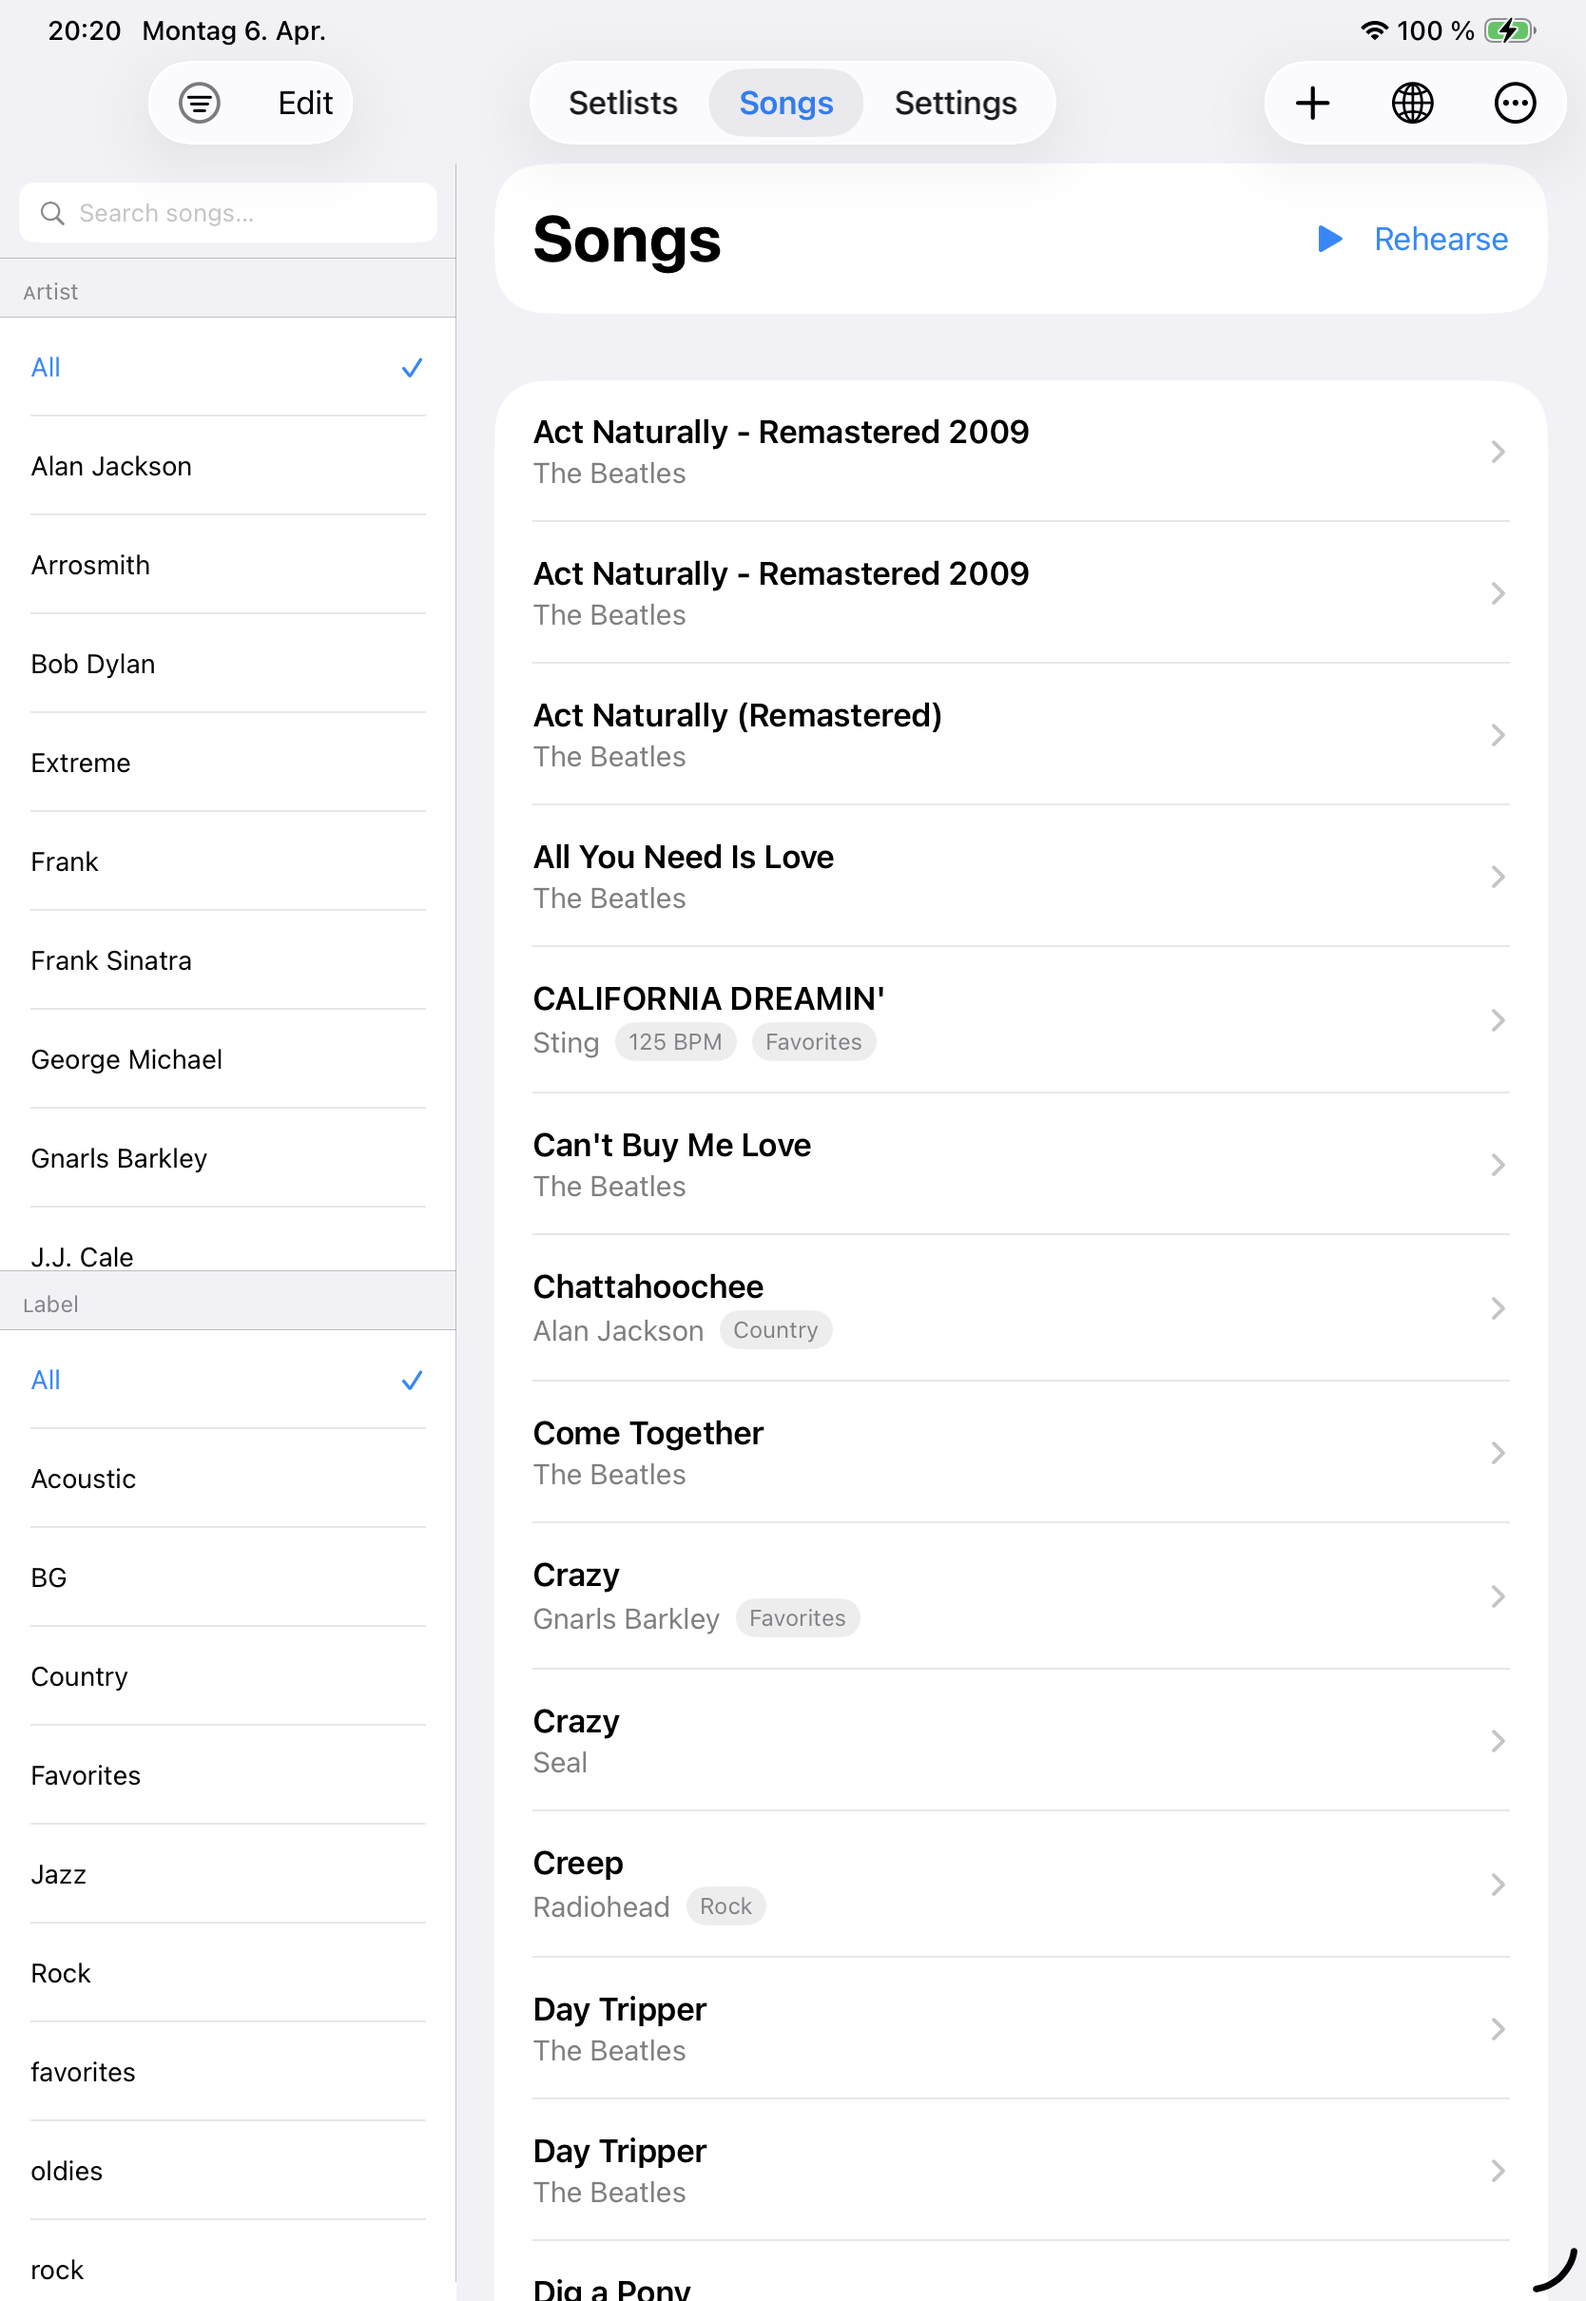
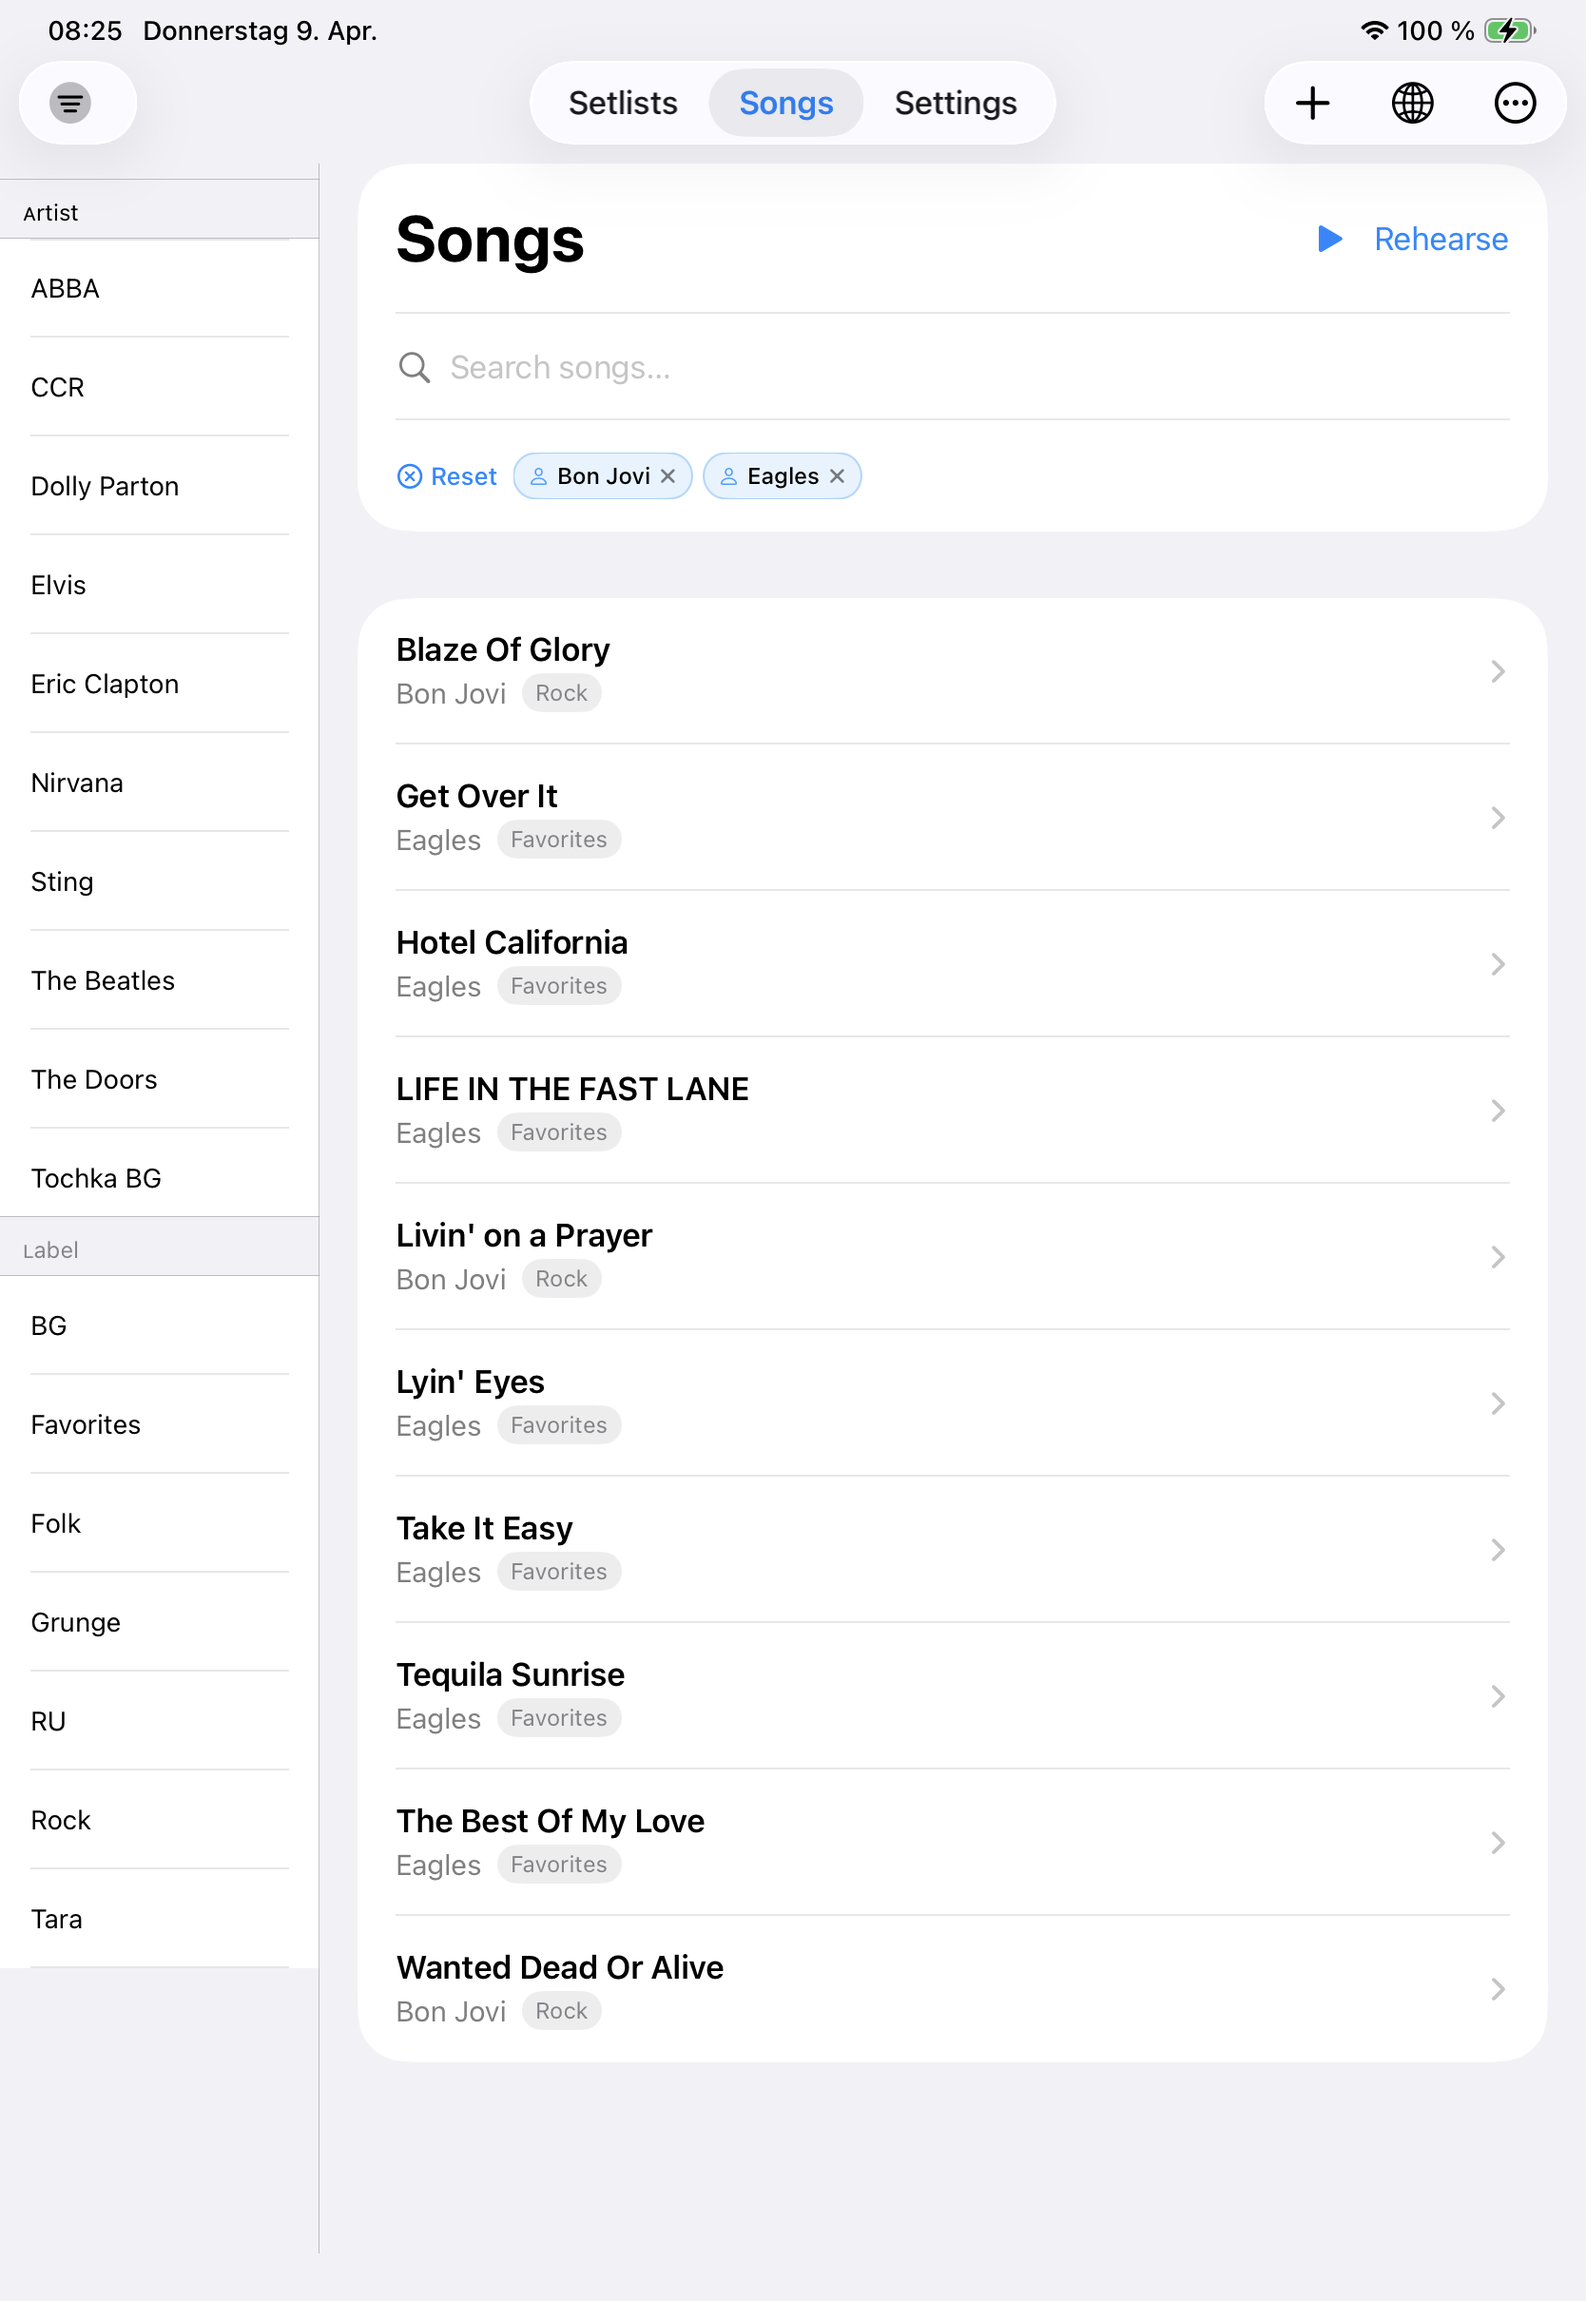
some minor updates

diff --git a/index.html b/index.html
@@ -422,7 +422,7 @@
 <section class="hero">
   <span class="hero-eyebrow">For performing musicians</span>
   <h1>Your songs.<br><em>Your stage.</em></h1>
-  <p>Manage lyrics, build setlists, transpose chords live — all offline, no account needed.</p>
+  <p>The songbook app built for live performance. Lyrics, chords, setlists — offline, no account, no distractions.</p>
   <div class="hero-actions">
     <a href="https://apps.apple.com" class="btn-primary">
       <svg width="17" height="17" viewBox="0 0 24 24" fill="currentColor"><path d="M18.71 19.5c-.83 1.24-1.71 2.45-3.05 2.47-1.34.03-1.77-.79-3.29-.79-1.53 0-2 .77-3.27.82-1.31.05-2.3-1.32-3.14-2.53C4.25 17 2.94 12.45 4.7 9.39c.87-1.52 2.43-2.48 4.12-2.51 1.28-.02 2.5.87 3.29.87.78 0 2.26-1.07 3.8-.91.65.03 2.47.26 3.64 1.98-.09.06-2.17 1.28-2.15 3.81.03 3.02 2.65 4.03 2.68 4.04-.03.07-.42 1.44-1.38 2.83M13 3.5c.73-.83 1.94-1.46 2.94-1.5.13 1.17-.34 2.35-1.04 3.19-.69.85-1.83 1.51-2.95 1.42-.15-1.15.41-2.35 1.05-3.11z"/></svg>
@@ -431,7 +431,7 @@
     <a href="#features" class="btn-secondary">See features</a>
   </div>
   <div class="hero-img">
-    <img src="ipad_screens/4.performance_view.PNG" alt="Gig Songbook performance mode" />
+    <img src="ipad_screens/4.performance_view_1.PNG" alt="Gig Songbook performance mode" />
   </div>
 </section>
 
@@ -475,7 +475,7 @@
   <div class="shots-header">
     <div class="section-eyebrow">See it in action</div>
     <h2 class="section-title">Built for the stage</h2>
-    <p class="section-sub">Every screen designed for low-light, high-pressure moments.</p>
+    <p class="section-sub">Real screenshots from the app — no mockups, no marketing fluff.</p>
   </div>
   <div class="shots-scroll">
     <div class="shot" onclick="openLightbox(0)">
@@ -491,27 +491,31 @@
       <div class="shot-label">Setlist Detail</div>
     </div>
     <div class="shot" onclick="openLightbox(3)">
-      <img src="ipad_screens/4.performance_view.PNG" alt="Performance Mode" />
+      <img src="ipad_screens/4.performance_view_1.PNG" alt="Performance Mode" />
       <div class="shot-label">Performance Mode</div>
     </div>
     <div class="shot" onclick="openLightbox(4)">
+      <img src="ipad_screens/4.performance_view_2.PNG" alt="Performance Mode — Dark" />
+      <div class="shot-label">Performance Mode — Dark</div>
+    </div>
+    <div class="shot" onclick="openLightbox(5)">
       <img src="ipad_screens/5.performance_view_sidebar_songselector.png" alt="Song Browser" />
       <div class="shot-label">Song Browser</div>
     </div>
-    <div class="shot" onclick="openLightbox(5)">
+    <div class="shot" onclick="openLightbox(6)">
       <img src="ipad_screens/6.performance_view_chord_tabs.png" alt="Chord Diagrams" />
       <div class="shot-label">Chord Diagrams</div>
     </div>
-    <div class="shot" onclick="openLightbox(6)">
-      <img src="ipad_screens/7.settings_view.PNG" alt="Settings" />
+    <div class="shot" onclick="openLightbox(7)">
+      <img src="ipad_screens/7.settings_view..PNG" alt="Settings" />
       <div class="shot-label">Settings</div>
     </div>
-    <div class="shot" onclick="openLightbox(7)">
+    <div class="shot" onclick="openLightbox(8)">
       <img src="ipad_screens/8.rehearse_view.PNG" alt="Rehearse Mode" />
       <div class="shot-label">Rehearse Mode</div>
     </div>
-    <div class="shot" onclick="openLightbox(8)">
-      <img src="ipad_screens/9.online_import_view.PNG" alt="Online Song Catalog" />
+    <div class="shot" onclick="openLightbox(9)">
+      <img src="ipad_screens/9.online_songs_catalog.PNG" alt="Online Song Catalog" />
       <div class="shot-label">Online Song Catalog</div>
     </div>
   </div>
@@ -529,6 +533,11 @@
     </div>
     <div class="features-grid">
       <div class="feature">
+        <span class="feature-icon">🔍</span>
+        <h3>Smart Multi-Filter</h3>
+        <p>Select multiple artists and labels at once — filters are OR-combined. Active filters appear as chips below the search field; dismiss one at a time or reset all. Filter state syncs between Songs and Rehearse.</p>
+      </div>
+      <div class="feature">
         <span class="feature-icon">🌑</span>
         <h3>Performance Mode</h3>
         <p>Full-screen dark display built for the stage. Top and bottom bars appear in sync. Tap corners to navigate, left zone for the song picker, anywhere else to toggle bars.</p>
@@ -536,7 +545,7 @@
       <div class="feature">
         <span class="feature-icon">🎙</span>
         <h3>Rehearse Mode</h3>
-        <p>Practice your filtered song list in a full-screen view. Tap <em>Rehearse</em> next to the Songs heading. Searchable sidebar with artist and label filters and a one-tap Reset Filter.</p>
+        <p>Practice in a full-screen view with a searchable sidebar. Select multiple artist and label filters at once — OR-combined, each dismissible as a chip. Filter state carries over from the Songs view automatically.</p>
       </div>
       <div class="feature">
         <span class="feature-icon">🔒</span>
@@ -573,6 +582,16 @@
         <h3><span>Import &amp; Export</span> <span class="pro-tag">Pro</span></h3>
         <p>Import from files or folders. Export your entire library or individual setlists. AirDrop to bandmates in seconds.</p>
       </div>
+      <div class="feature" style="background: var(--bg2);">
+        <span class="feature-icon">🚀</span>
+        <h3 style="color: var(--secondary);">More Coming Soon</h3>
+        <p>New features are on the way — built around real musician feedback. Stay tuned for what's next.</p>
+      </div>
+      <div class="feature" style="background: var(--bg2);">
+        <span class="feature-icon">💡</span>
+        <h3 style="color: var(--secondary);">Have an Idea?</h3>
+        <p>Every feature in this app started as a real need on a real stage. <a href="mailto:gigsongbook@gerov.com" style="color: var(--accent); text-decoration: none;">Tell us what you need</a> — we're listening.</p>
+      </div>
     </div>
   </div>
 </section>
@@ -581,7 +600,7 @@
 
 <!-- QUOTE -->
 <div class="quote-section">
-  <p class="quote">"Finally an app that <em>gets out of the way</em> and lets you focus on the music."</p>
+  <p class="quote">The only app that <em>gets out of the way</em> when the lights go down and the music starts.</p>
 </div>
 
 <!-- PRICING -->
@@ -599,10 +618,9 @@
         <div class="plan-price">$0</div>
         <div class="plan-desc">Everything you need to get started.</div>
         <ul class="plan-features">
-          <li>Unlimited songs</li>
-          <li>Unlimited setlists</li>
-          <li>Chord transposition</li>
-          <li>Performance mode</li>
+          <li>Unlimited songs &amp; setlists</li>
+          <li>Performance &amp; Rehearse mode</li>
+          <li>Multi-filter (artist, label)</li>
           <li>Setlist locking</li>
           <li>Lyrics auto-fetch</li>
           <li>Chord tab diagrams</li>
@@ -634,7 +652,7 @@
 <!-- CTA -->
 <section class="cta-section">
   <h2>Ready for your next gig?</h2>
-  <p>Download free. Be on stage in minutes.</p>
+  <p>Free to download. Pro upgrade is a one-time payment — yours forever.</p>
   <a href="https://apps.apple.com" class="btn-cta">
     <svg width="17" height="17" viewBox="0 0 24 24" fill="currentColor"><path d="M18.71 19.5c-.83 1.24-1.71 2.45-3.05 2.47-1.34.03-1.77-.79-3.29-.79-1.53 0-2 .77-3.27.82-1.31.05-2.3-1.32-3.14-2.53C4.25 17 2.94 12.45 4.7 9.39c.87-1.52 2.43-2.48 4.12-2.51 1.28-.02 2.5.87 3.29.87.78 0 2.26-1.07 3.8-.91.65.03 2.47.26 3.64 1.98-.09.06-2.17 1.28-2.15 3.81.03 3.02 2.65 4.03 2.68 4.04-.03.07-.42 1.44-1.38 2.83M13 3.5c.73-.83 1.94-1.46 2.94-1.5.13 1.17-.34 2.35-1.04 3.19-.69.85-1.83 1.51-2.95 1.42-.15-1.15.41-2.35 1.05-3.11z"/></svg>
     Download on the App Store
@@ -649,10 +667,10 @@
   </a>
   <div class="footer-links">
     <a href="https://github.com/petergerov/gig-songbook">GitHub</a>
-    <a href="../PRIVACY.md">Privacy Policy</a>
-    <a href="mailto:peter@gerov.com">Support</a>
+    <a href="PRIVACY.md">Privacy Policy</a>
+    <a href="mailto:gigsongbook@gerov.com">Support</a>
   </div>
-  <p>© 2025 Petar Gerov</p>
+  <p>© 2026 Petar Gerov</p>
 </footer>
 
 <!-- LIGHTBOX -->
@@ -671,12 +689,13 @@
     { src: 'ipad_screens/1.songlist_view.PNG',                         label: 'Song Library' },
     { src: 'ipad_screens/2.setlist.PNG',                               label: 'Setlists' },
     { src: 'ipad_screens/3.setlist_view.PNG',                          label: 'Setlist Detail' },
-    { src: 'ipad_screens/4.performance_view.PNG',                      label: 'Performance Mode' },
+    { src: 'ipad_screens/4.performance_view_1.PNG',                    label: 'Performance Mode' },
+    { src: 'ipad_screens/4.performance_view_2.PNG',                    label: 'Performance Mode — Dark' },
     { src: 'ipad_screens/5.performance_view_sidebar_songselector.png', label: 'Song Browser' },
     { src: 'ipad_screens/6.performance_view_chord_tabs.png',           label: 'Chord Diagrams' },
-    { src: 'ipad_screens/7.settings_view.PNG',                         label: 'Settings' },
-    { src: 'ipad_screens/8.rehearse_view.PNG',                          label: 'Rehearse Mode' },
-    { src: 'ipad_screens/9.online_import_view.PNG',                    label: 'Online Song Catalog' },
+    { src: 'ipad_screens/7.settings_view..PNG',                        label: 'Settings' },
+    { src: 'ipad_screens/8.rehearse_view.PNG',                         label: 'Rehearse Mode' },
+    { src: 'ipad_screens/9.online_songs_catalog.PNG',                  label: 'Online Song Catalog' },
   ];
   let current = 0;
 
